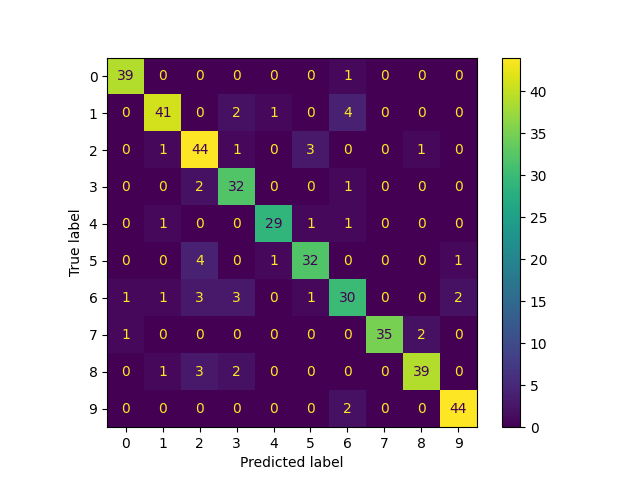
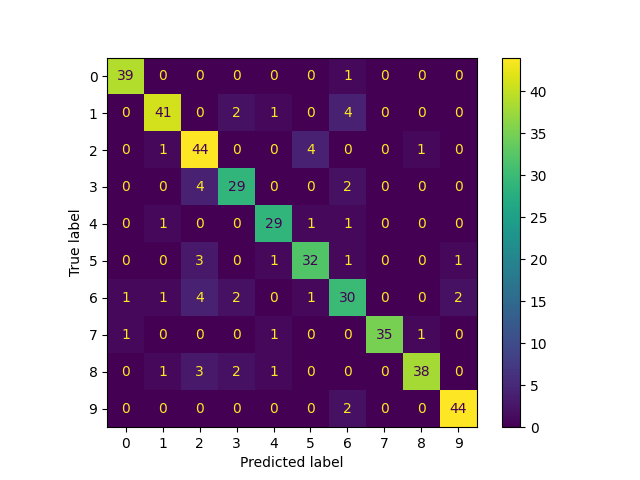
A2 done vol2

diff --git a/Assignment 2/nn_classification_sklearn.py b/Assignment 2/nn_classification_sklearn.py
@@ -23,14 +23,14 @@ def reduce_dimension(X_train: np.ndarray, n_components: int) -> Tuple[np.ndarray
     #       Print the explained variance ratio of the PCA object.
     #       Return both the transformed data and the PCA object.
 
-    pca_model = PCA(n_components = n_components)
+    pca_model = PCA(n_components = n_components, random_state=42)
     x_transform = pca_model.fit_transform(X_train)
 
     pca_ratio = np.sum(pca_model.explained_variance_ratio_) * 100
 
     print(f'Explained variance ratio of the PCA object: {pca_ratio}')
 
-    return [x_transform, pca_model]
+    return x_transform, pca_model
 
 
 def train_nn(X_train: np.ndarray, y_train: np.ndarray) -> MLPClassifier:
@@ -80,7 +80,7 @@ def train_nn(X_train: np.ndarray, y_train: np.ndarray) -> MLPClassifier:
 
         print(f'Training Accuracy: {round(accuracy_train, 5)}')
         print(f'Validation Accuracy: {round(accuracy_validation, 5)}')
-        print(f'Testing loss: {round(mlp_model.loss_, 5)}')
+        print(f'Training loss: {round(mlp_model.loss_, 5)}')
 
     mlp_model_best = all_models[4]
 
@@ -142,7 +142,7 @@ def train_nn_with_regularization(X_train: np.ndarray, y_train: np.ndarray) -> ML
 
             print(f'Training Accuracy: {round(accuracy_train, 5)}')
             print(f'Validation Accuracy: {round(accuracy_validation, 5)}')
-            print(f'Testing loss: {round(mlp_model.loss_, 5)}')
+            print(f'Training loss: {round(mlp_model.loss_, 5)}')
 
     return all_models[9]
 

diff --git a/Assignment 2/main.py b/Assignment 2/main.py
@@ -20,7 +20,7 @@ def task_1():
     # PCA
     # Task 1.1.1
     print("----- Task 1.1.1 -----")
-    n_components = 320 # TODO: Choose the number of components such that 95% of the variance is retained
+    n_components = 303 # TODO: Choose the number of components such that 95% of the variance is retained
     X_train_pca, pca = reduce_dimension(X_train, n_components)
     print(X_train_pca.shape)
 
